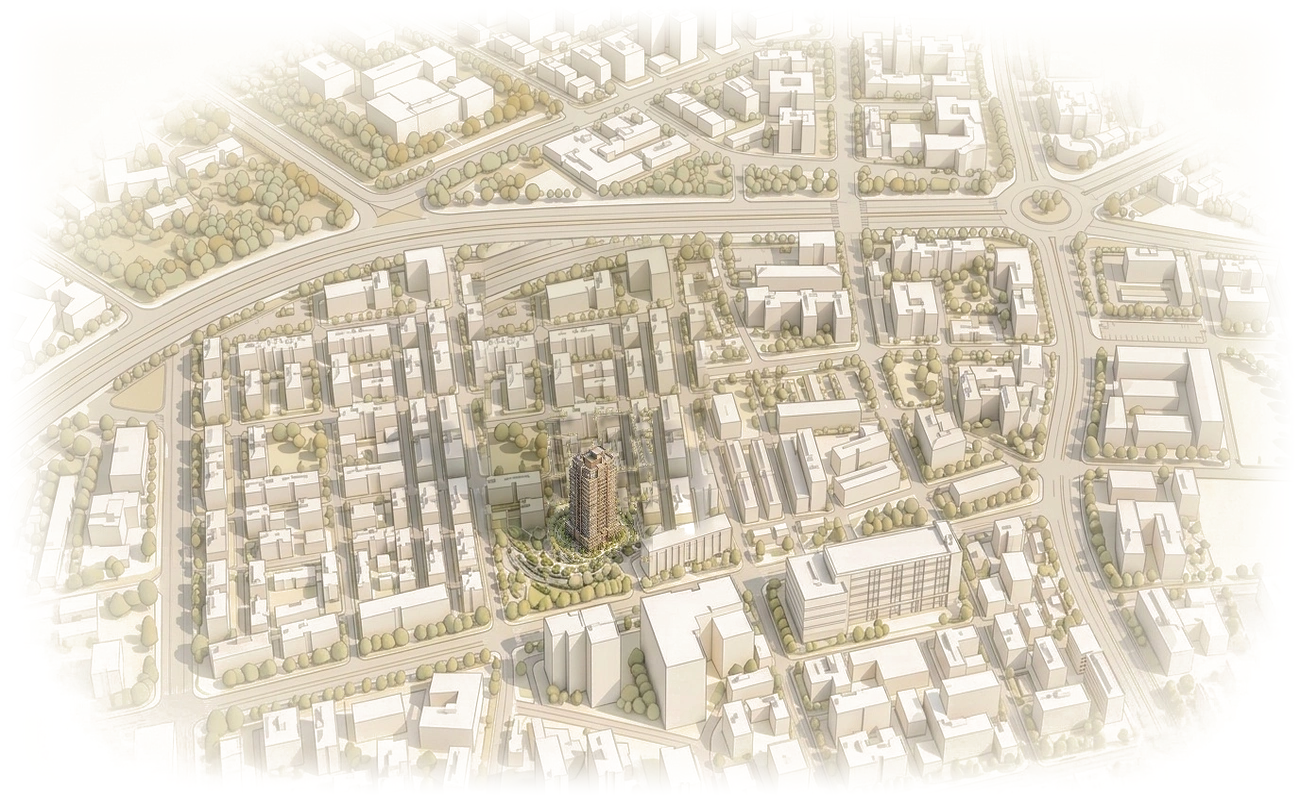
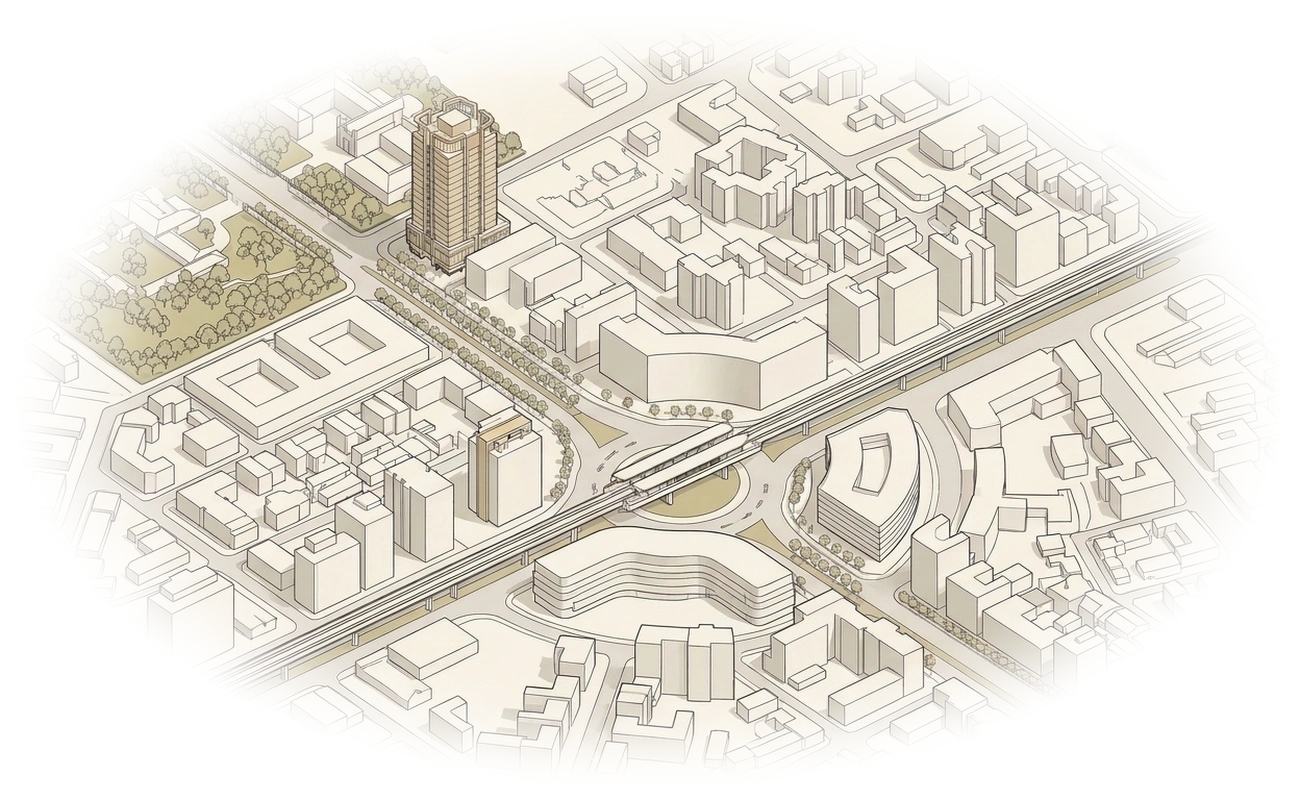
Revert Nearby location back to the British Embassy / Megenagna area
Undo the location part of f004663 (and its follow-ups) while keeping the
video/poster updates and later layout and "Yohart" spelling fixes:

- Nearby: restore the old axonometric map, the tower badge position and
  "Behind British Embassy" label, and the original places with their photos
  (British Embassy, Century Mall, Megenagna Transit Hub, Zefmesh Grand Mall,
  Panorama Hotel) in place of Cambridge Academy, Saudi Embassy, Pepsi
  Factory and Sweatbox Gym
- Location section: "behind the British Embassy in Megenagna" again
- Footer: drop the "Semit (around Cambridge Academy)" address line

diff --git a/src/components/sections/Nearby/Nearby.tsx b/src/components/sections/Nearby/Nearby.tsx
@@ -5,10 +5,11 @@ import Image from 'next/image';
 import type { StaticImageData } from 'next/image';
 
 import mapBase from '@/assets/home/around/axonometric-map.webp';
-import cambridgeAcademyImg from '@/assets/home/around/cambridge-academy.jpg';
-import saudiEmbassyImg from '@/assets/home/around/saudi-embassy.jpg';
-import pepsiFactoryImg from '@/assets/home/around/pepsi-factory.jpg';
-import sweatboxGymImg from '@/assets/home/around/sweatbox-gym.jpg';
+import britishEmbassyImg from '@/assets/home/around/british-embassy.jpg';
+import centuryMallImg from '@/assets/home/around/century-mall.jpg';
+import megenagnaTransitImg from '@/assets/home/around/megenagna-transit.jpg';
+import zefmeshMallImg from '@/assets/home/around/zefmesh-mall.jpg';
+import panoramaHotelImg from '@/assets/home/around/panorama-hotel.jpg';
 
 type Place = {
   id: string;
@@ -26,44 +27,54 @@ type Place = {
 
 const PLACES: Place[] = [
   {
-    id: 'cambridge-academy',
-    name: 'Cambridge Academy',
-    car: '3 min',
-    walk: '8 min',
-    description:
-      'A leading international British Curriculum school in Addis Ababa, delivering early years through pre-university education (IGCSE and A-Levels) with modern academic and sports facilities.',
-    image: cambridgeAcademyImg,
-    pin: { x: 16.2, y: 15.6 },
-  },
-  {
-    id: 'saudi-embassy',
-    name: 'Embassy of Saudi Arabia',
-    car: '2 min',
-    walk: '6 min',
-    description:
-      'A prestigious diplomatic compound situated along the primary boulevard, reinforcing the neighborhood’s international standing, enhanced security, and long-term residential appeal.',
-    image: saudiEmbassyImg,
-    pin: { x: 64.6, y: 33.1 },
-  },
-  {
-    id: 'pepsi-factory',
-    name: 'Summit PEPSI Factory',
-    car: '4 min',
-    walk: '12 min',
-    description:
-      'One of the Summit district’s major commercial landmarks near the eastern roundabout, anchoring regional distribution, economic activity, and urban connectivity.',
-    image: pepsiFactoryImg,
-    pin: { x: 90.8, y: 16.2 },
-  },
-  {
-    id: 'sweatbox-gym',
-    name: 'Sweatbox Performance Gym',
+    id: 'british-embassy',
+    name: 'British Embassy',
     car: '1 min',
     walk: '3 min',
     description:
-      'Addis Ababa’s premier CrossFit and high-performance training facility at Semit, offering Olympic lifting platforms, functional HIIT conditioning, coaching, and wellness recovery just steps from home.',
-    image: sweatboxGymImg,
-    pin: { x: 44.6, y: 80.0 },
+      'The historic Embassy of the United Kingdom in Addis Ababa is situated directly adjacent to the site along Comoros Street, featuring lush diplomatic parklands, top-tier security, and mature green tree canopies.',
+    image: britishEmbassyImg,
+    pin: { x: 49.0, y: 8.7 },
+  },
+  {
+    id: 'century-mall',
+    name: 'Century Mall',
+    car: '3 min',
+    walk: '8 min',
+    description:
+      "One of Megenagna's premier modern commercial destinations at Gurd Shola, hosting a multi-screen cinema, international retail boutiques, vibrant cafes, and family entertainment amenities.",
+    image: centuryMallImg,
+    pin: { x: 78.0, y: 43.2 },
+  },
+  {
+    id: 'megenagna-transit',
+    name: 'Megenagna Transit Hub',
+    car: '4 min',
+    walk: '10 min',
+    description:
+      "Addis Ababa's vital eastern transit interchange, seamlessly connecting the East-West Light Rail Transit (LRT) network with key city bus corridors, rapid taxis, and direct routes toward Bole and Kazanchis.",
+    image: megenagnaTransitImg,
+    pin: { x: 45.0, y: 56.8 },
+  },
+  {
+    id: 'zefmesh-mall',
+    name: 'Zefmesh Grand Mall',
+    car: '4 min',
+    walk: '12 min',
+    description:
+      'A bustling multi-level shopping and commercial center at the center of Megenagna, housing hundreds of specialty retailers, electronics stores, banking hubs, and traditional dining options.',
+    image: zefmeshMallImg,
+    pin: { x: 40.0, y: 48.2 },
+  },
+  {
+    id: 'panorama-hotel',
+    name: 'Panorama Hotel',
+    car: '2 min',
+    walk: '5 min',
+    description:
+      'A distinguished 4-star hospitality landmark located just south of Megenagna along Equatorial Guinea Street, offering international dining, rooftop lounges, and premium guest accommodations.',
+    image: panoramaHotelImg,
+    pin: { x: 38.0, y: 67.9 },
   },
 ];
 
@@ -352,7 +363,7 @@ export function NearbySection() {
           <div className="relative mt-8 aspect-[1300/800] w-full overflow-visible">
             <Image
               src={mapBase}
-              alt="Map of Summit and Semit district around Yohart Tower"
+              alt="Map of Megenagna and British Embassy area"
               fill
               priority
               sizes="100vw"
@@ -363,8 +374,8 @@ export function NearbySection() {
             <div
               className="pointer-events-none absolute z-20 flex flex-col items-center"
               style={{
-                left: '46.7%',
-                top: '56.2%',
+                left: '35%',
+                top: '12.5%',
                 transform: 'translate(-50%, -100%)',
               }}
             >
@@ -390,7 +401,7 @@ export function NearbySection() {
                     Yohart Tower
                   </p>
                   <p className="text-[7px] text-[#e8dac7] font-medium">
-                    Summit · Semit District
+                    Behind British Embassy
                   </p>
                 </div>
               </div>
@@ -629,7 +640,7 @@ export function NearbySection() {
               <div className="absolute inset-0">
                 <Image
                   src={mapBase}
-                  alt="Axonometric Perspective Map of Summit and Semit district around Yohart Tower"
+                  alt="Axonometric Perspective Map of Megenagna and British Embassy area"
                   fill
                   priority
                   sizes="72vw"
@@ -637,12 +648,12 @@ export function NearbySection() {
                 />
               </div>
 
-              {/* CENTER LOCATION BADGE: Yohart Tower · Summit & Semit */}
+              {/* CENTER LOCATION BADGE: Yohart Tower · Behind British Embassy Megenagna */}
               <div
                 className="pointer-events-none absolute z-20 flex flex-col items-center"
                 style={{
-                  left: '46.7%',
-                  top: '56.2%',
+                  left: '35%',
+                  top: '12.5%',
                   transform: 'translate(-50%, -100%) translateZ(28px)',
                 }}
               >
@@ -670,7 +681,7 @@ export function NearbySection() {
                       Yohart Tower
                     </p>
                     <p className="text-[9px] text-[#e8dac7] font-medium">
-                      Summit · Semit District
+                      Behind British Embassy
                     </p>
                   </div>
                 </div>

diff --git a/src/components/sections/Location/Location.tsx b/src/components/sections/Location/Location.tsx
@@ -39,7 +39,7 @@ export default function Location(){
                 <div className="flex w-7/12 flex-col items-end justify-between py-24 max-2xl:w-2/3 max-2xl:py-16 max-lg:h-full max-lg:w-full max-lg:pt-20 max-lg:pb-10 max-md:items-start max-md:gap-10 max-md:pt-16">
                 <p className="paragraph text-cream max-w-lg text-[max(1.25rem,16px)] leading-[1.45] [text-shadow:0_1px_14px_rgba(0,0,0,0.35)] max-2xl:max-w-md max-md:w-full">
                 At one of Addis Ababa&#x27;s most dynamic and prestigious locations, 
-                around Semit, Yohart Tower is taking shape
+                behind the British Embassy in Megenagna, Yohart Tower is taking shape
                  as a contemporary residential and commercial development that seamlessly brings
                   together refined architecture, everyday comfort, and enduring value.
                 </p>

diff --git a/src/data/site.ts b/src/data/site.ts
@@ -13,7 +13,6 @@ export const site = {
   country: 'Ethiopia',
   locations: [
     'Megenagna, Addis Ababa',
-    'Semit (around Cambridge Academy), Addis Ababa',
   ],
   phone: { display: '+251 910 650 561', href: 'tel:+251910650561' },
   email: 'yoharttradingplc@gmail.com',
